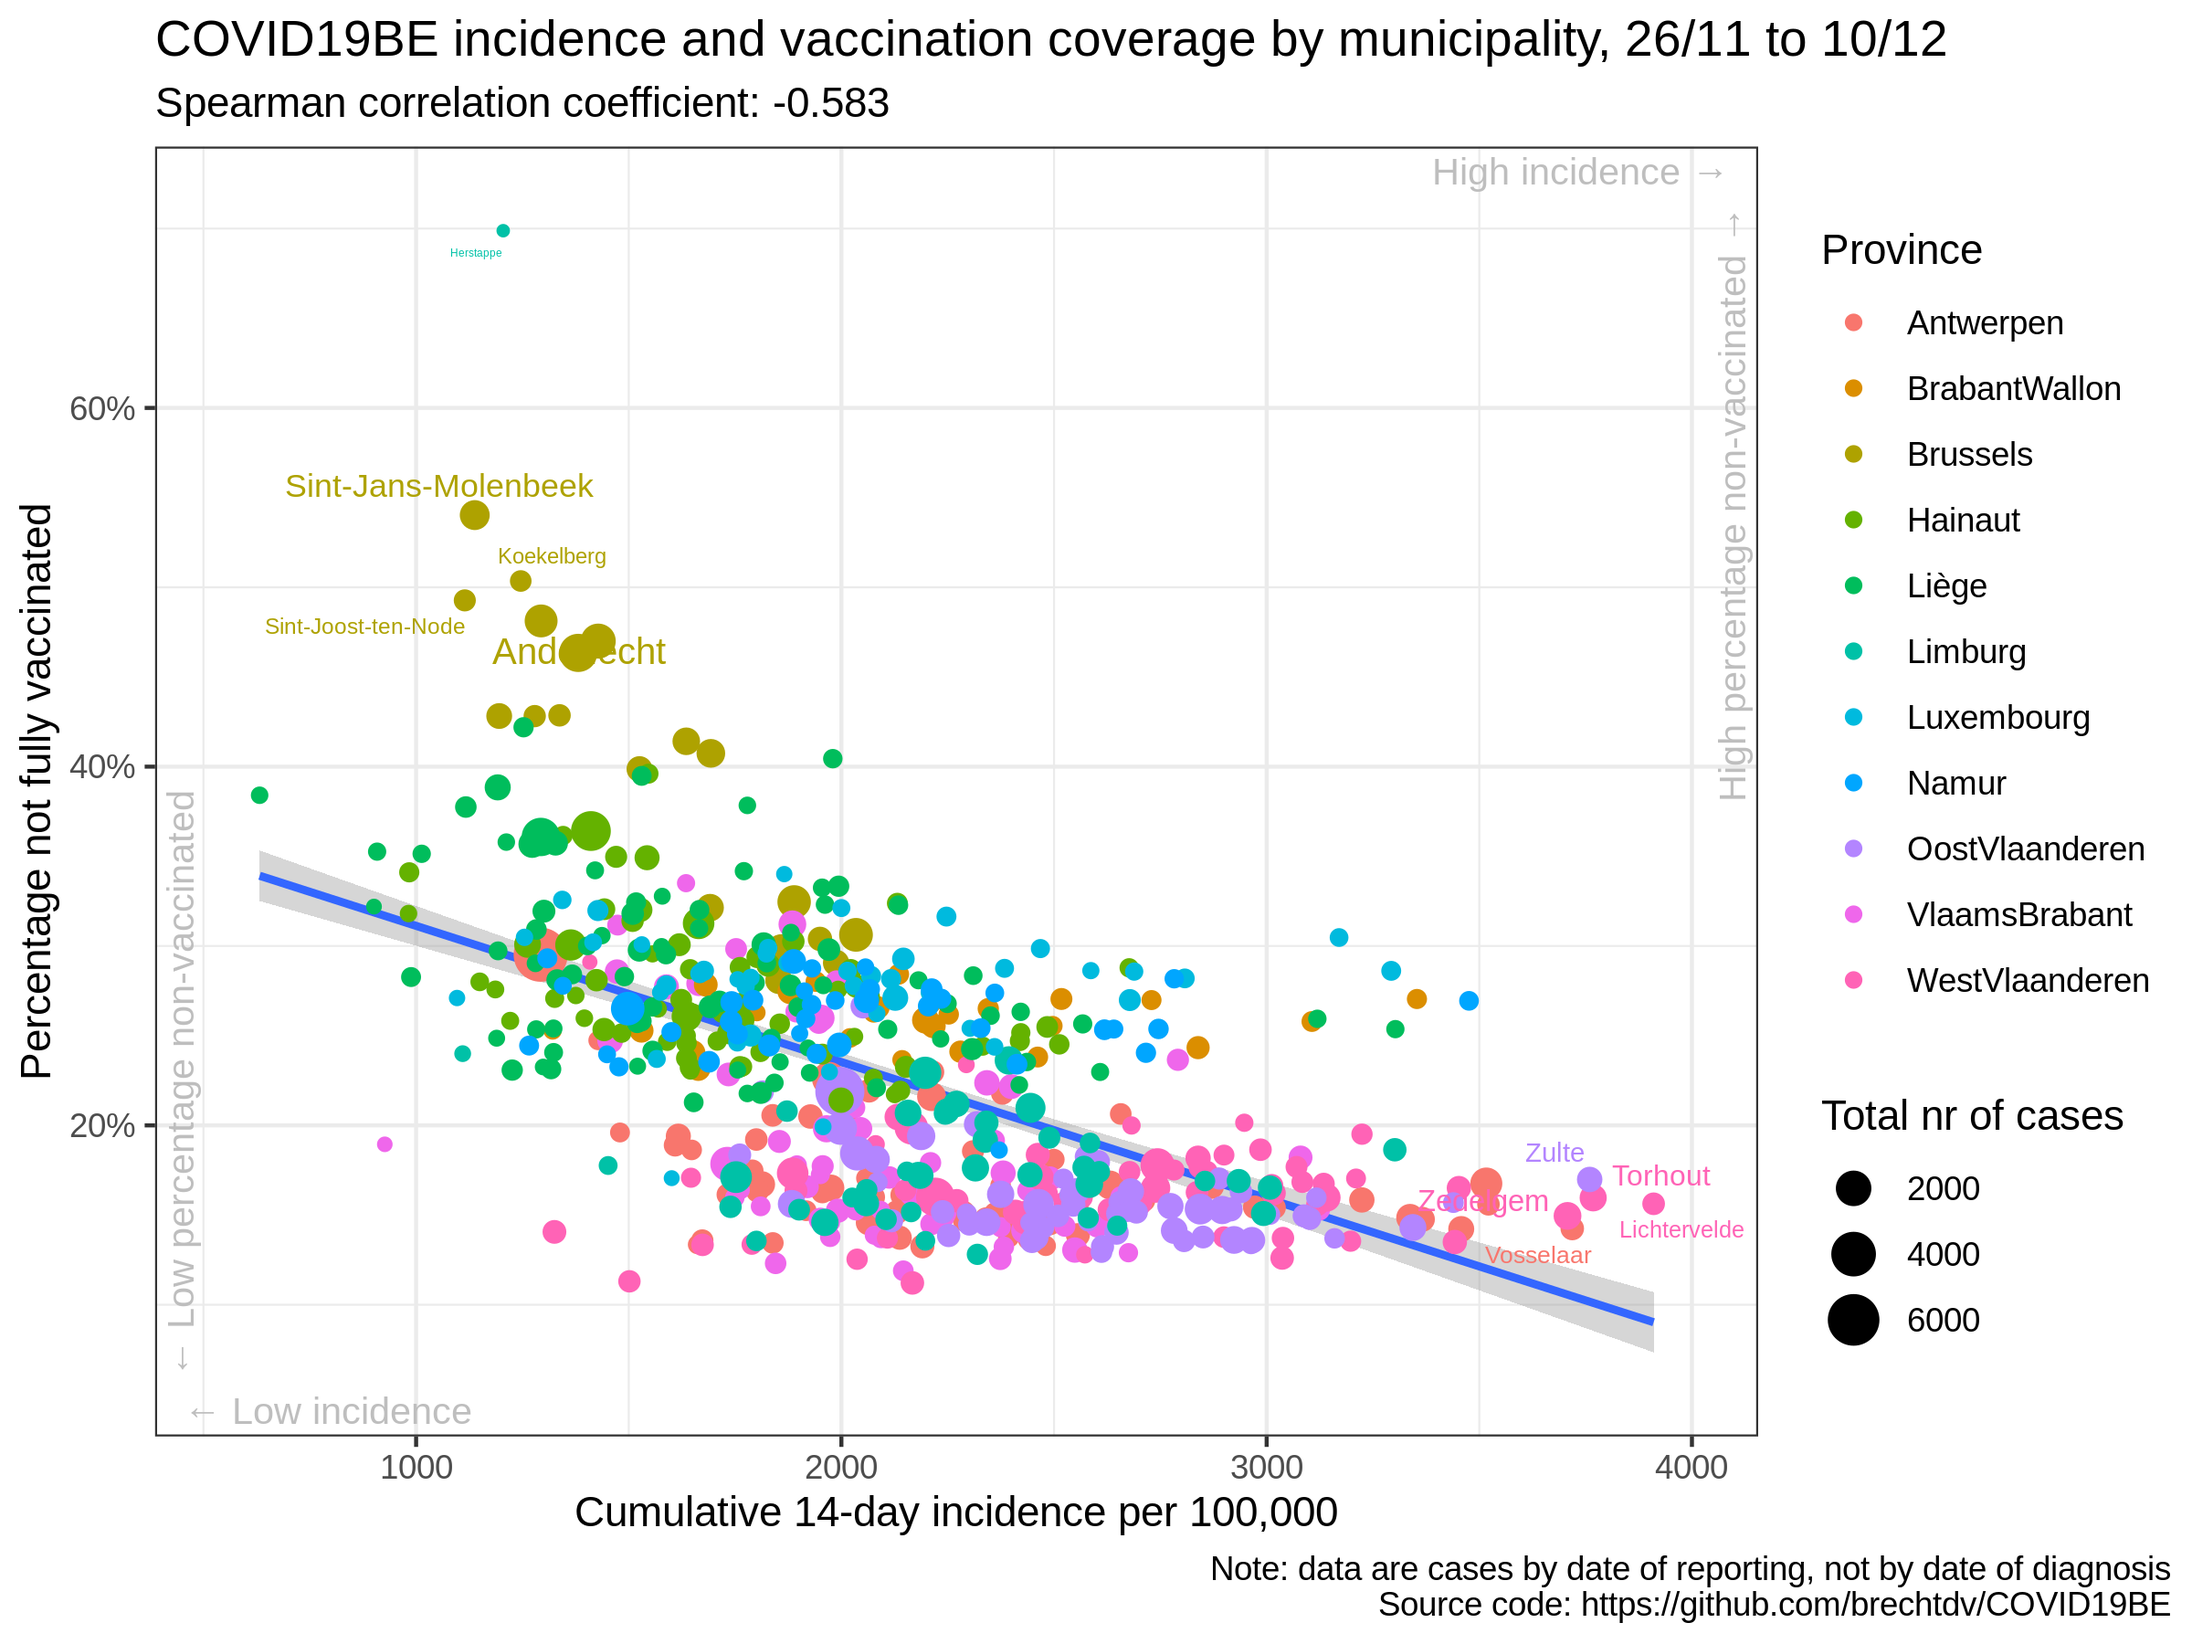
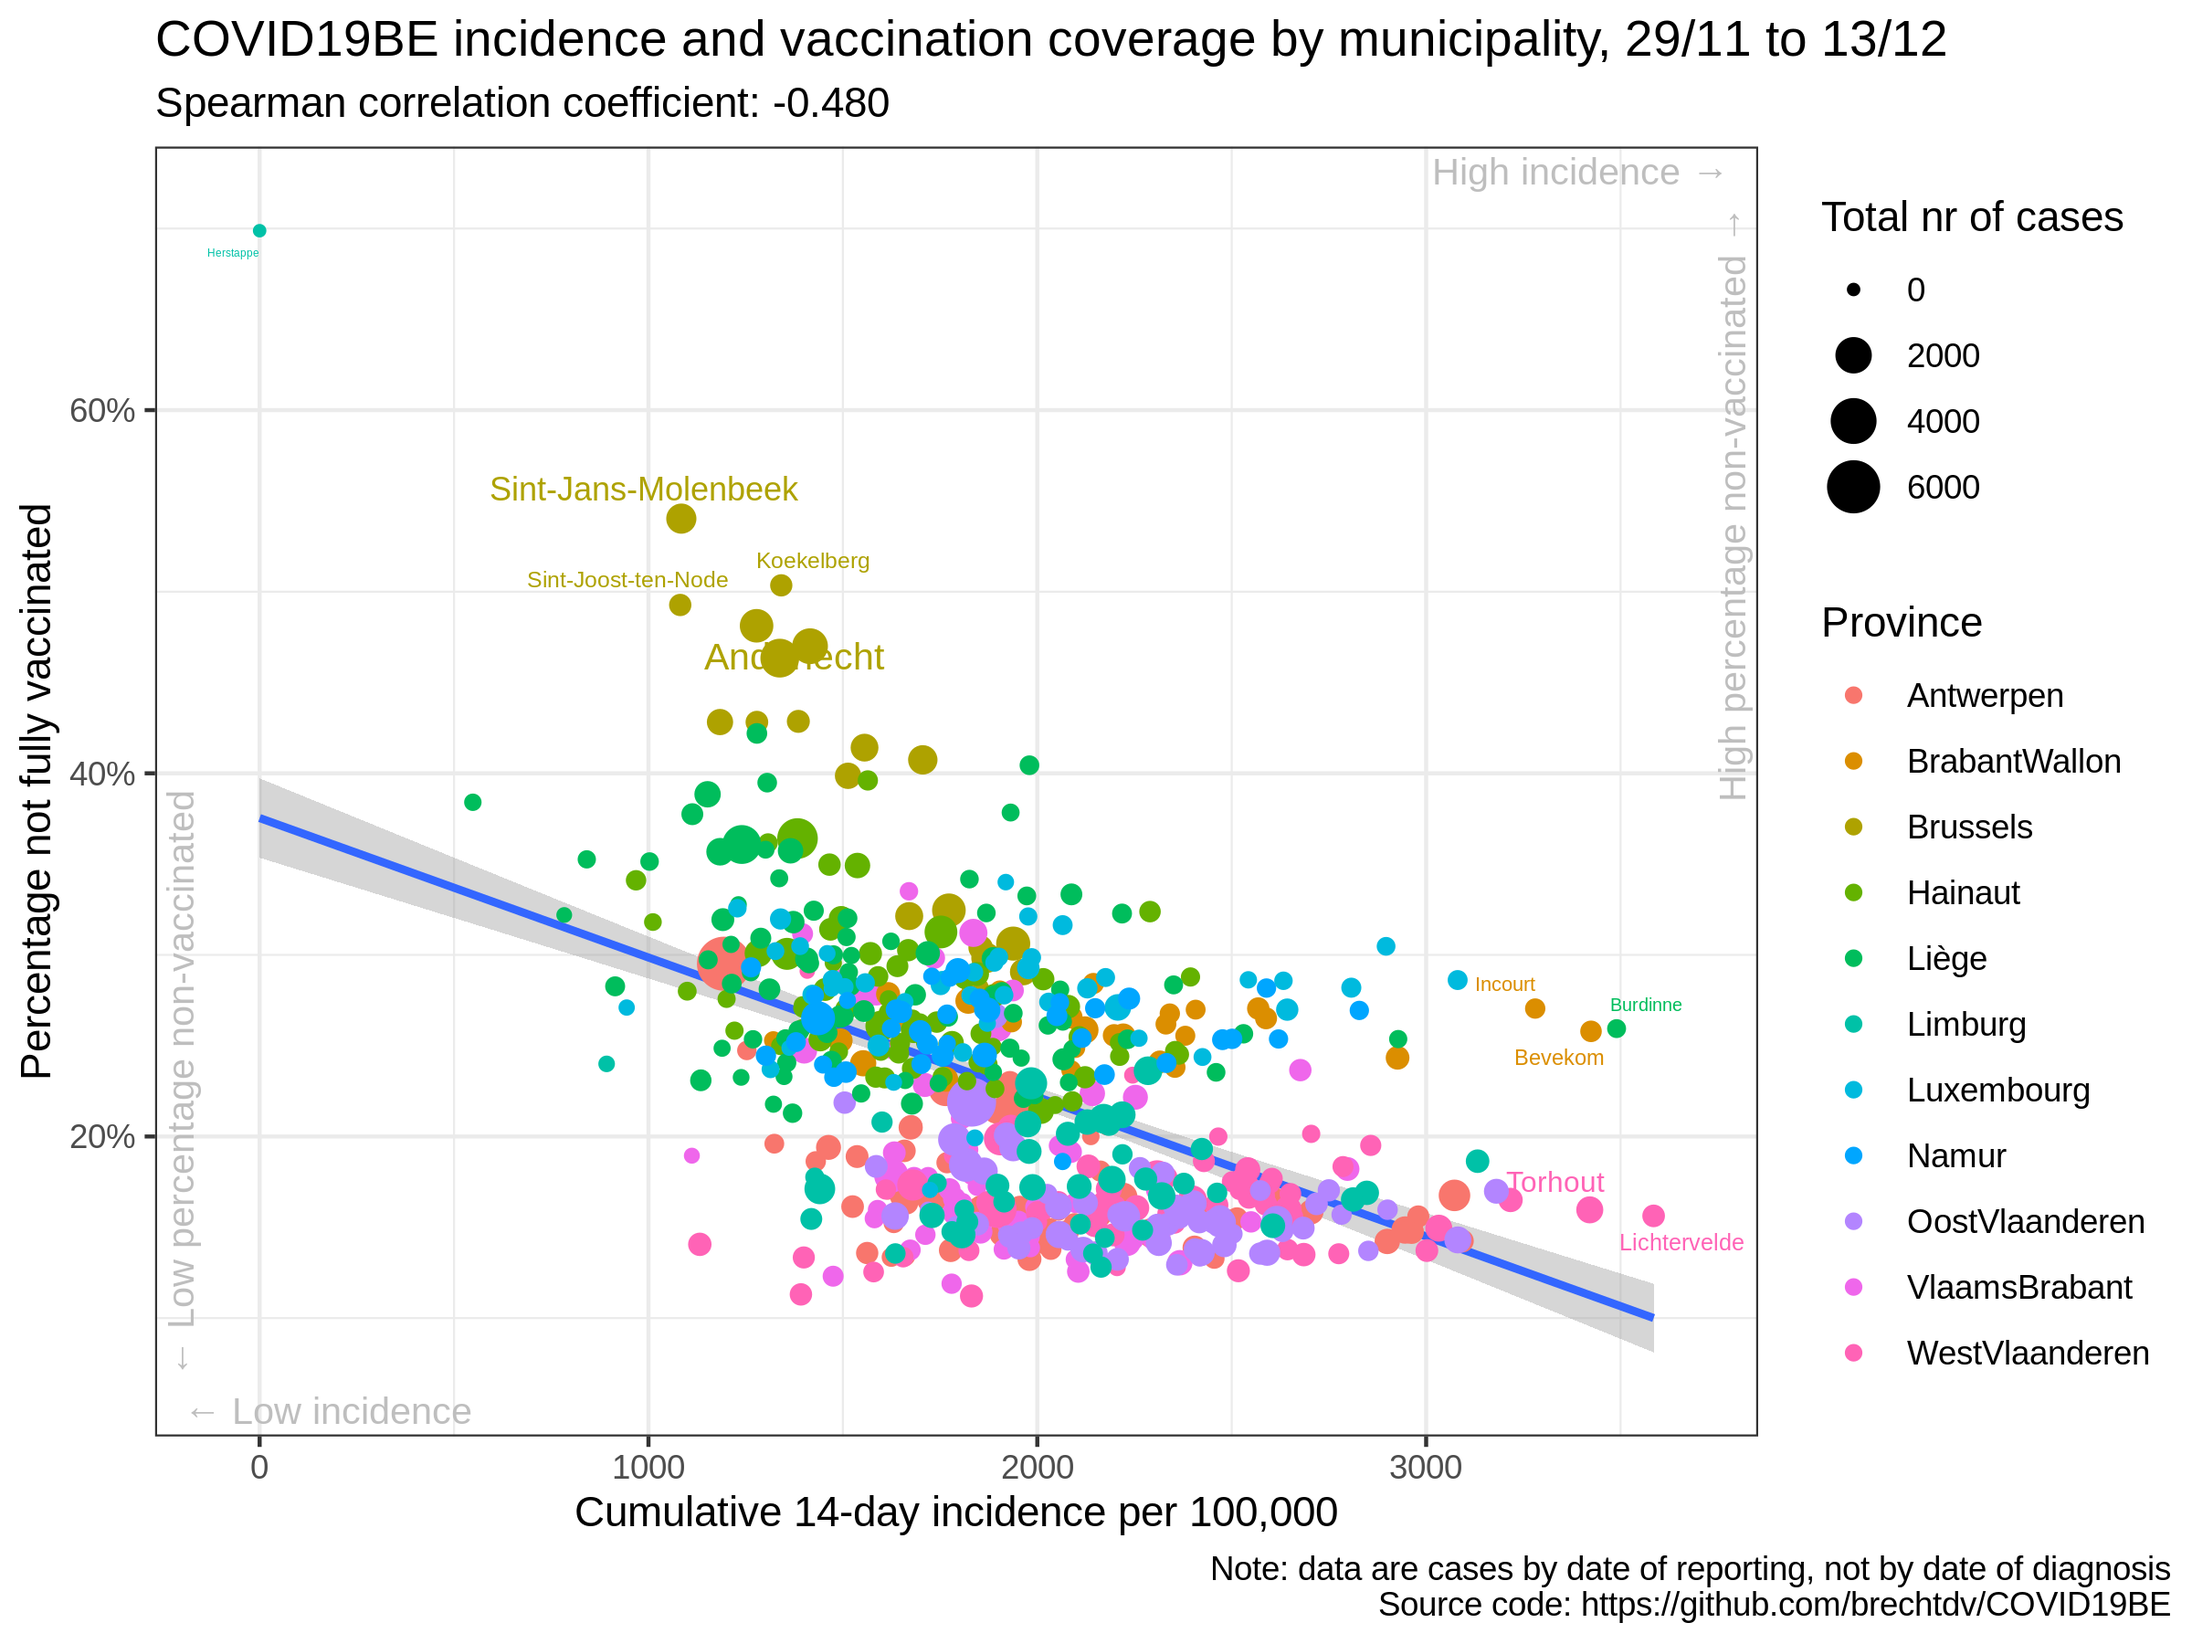
update situation

diff --git a/vaccination/README.md b/vaccination/README.md
@@ -13,18 +13,18 @@
 
 |                | estimate.rho | p.value |
 | :------------- | -----------: | ------: |
-| Antwerpen      |      \-0.355 |   0.003 |
-| BrabantWallon  |        0.086 |   0.668 |
-| Brussels       |      \-0.875 |   0.000 |
-| Hainaut        |      \-0.481 |   0.000 |
-| Liège          |      \-0.371 |   0.001 |
-| Limburg        |      \-0.028 |   0.862 |
-| Luxembourg     |      \-0.020 |   0.899 |
-| Namur          |        0.057 |   0.735 |
-| OostVlaanderen |      \-0.401 |   0.002 |
-| VlaamsBrabant  |      \-0.499 |   0.000 |
-| WestVlaanderen |        0.062 |   0.624 |
-| Belgium        |      \-0.583 |   0.000 |
+| Antwerpen      |      \-0.361 |   0.002 |
+| BrabantWallon  |        0.119 |   0.553 |
+| Brussels       |      \-0.888 |   0.000 |
+| Hainaut        |      \-0.493 |   0.000 |
+| Liège          |      \-0.307 |   0.005 |
+| Limburg        |      \-0.009 |   0.955 |
+| Luxembourg     |        0.032 |   0.838 |
+| Namur          |        0.045 |   0.786 |
+| OostVlaanderen |      \-0.313 |   0.015 |
+| VlaamsBrabant  |      \-0.348 |   0.005 |
+| WestVlaanderen |        0.122 |   0.337 |
+| Belgium        |      \-0.480 |   0.000 |
 
 ### Data source
 
